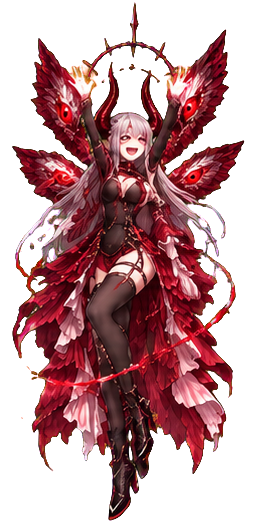
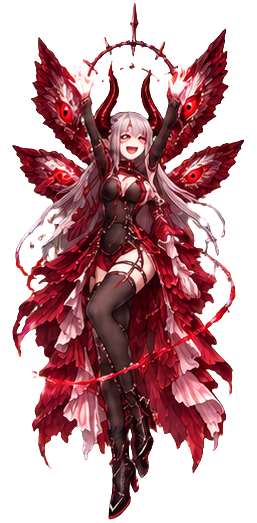
Smooth Lunabel phase 2 opening motions and clean charge sprite edges
- Use bilinear filtering with mipmaps for phase 2 raise/charge/throw so they no
  longer break up when the camera zooms out during the opening
- Re-key the charge frames to remove olive fringes on hair and blood threads

Changed region(s): [[0.0311, 0.0, 0.9339, 1.0], [0.4669, 0.6119, 0.4981, 0.6424], [0.1868, 0.8872, 0.2179, 0.9178]]

diff --git a/Assets/Script/Editor/CharacterArtPostprocessor.cs b/Assets/Script/Editor/CharacterArtPostprocessor.cs
@@ -337,6 +337,14 @@ namespace Aethoria.EditorTools
             // 피의 레이저: 원본보다 줄여 쓰는 빛줄기라 Point면 줄기가 반짝이며 깨진다.
             "Art/Effects/LunabelLaserMuzzle/", "Art/Effects/LunabelLaserBeam/", "Art/Effects/LunabelLaserImpact/",
             "Art/Effects/LunabelLaserFade/", "Art/Effects/LunabelLaserCharge/",
+            // 2페이즈 개막(손 들기·구체 모으기·던지기)은 카메라를 넓힌(작게 보이는) 채 오래 비춰서 Point면 계단처럼 깨진다.
+            "Art/Monsters/FinalBoss/Phase2/Special/", "Art/Monsters/FinalBoss/Phase2/Charge/", "Art/Monsters/FinalBoss/Phase2/Throw/",
+        };
+
+        // 작게 줄여 보이는 그림은 밉맵까지 만들어야 줄였을 때 반짝이며 깨지지 않는다.
+        private static readonly string[] MipmapFolders =
+        {
+            "Art/Monsters/FinalBoss/Phase2/Special/", "Art/Monsters/FinalBoss/Phase2/Charge/", "Art/Monsters/FinalBoss/Phase2/Throw/",
         };
 
         // 길이에 맞춰 이어 붙여(SpriteRenderer Tiled) 그리는 레이저 줄기는 메시를 사각형 그대로(FullRect) 만들어야 이음매가 맞는다.
@@ -391,7 +399,12 @@ namespace Aethoria.EditorTools
             }
             importer.filterMode = smooth ? FilterMode.Bilinear : FilterMode.Point;
             importer.alphaIsTransparency = true;
-            importer.mipmapEnabled = false;
+            bool mipmap = false;
+            foreach (var subfolder in MipmapFolders)
+            {
+                if (normalizedPath.Contains(subfolder)) mipmap = true;
+            }
+            importer.mipmapEnabled = mipmap;
             importer.textureCompression = TextureImporterCompression.Uncompressed;
 
             var settings = new TextureImporterSettings();
